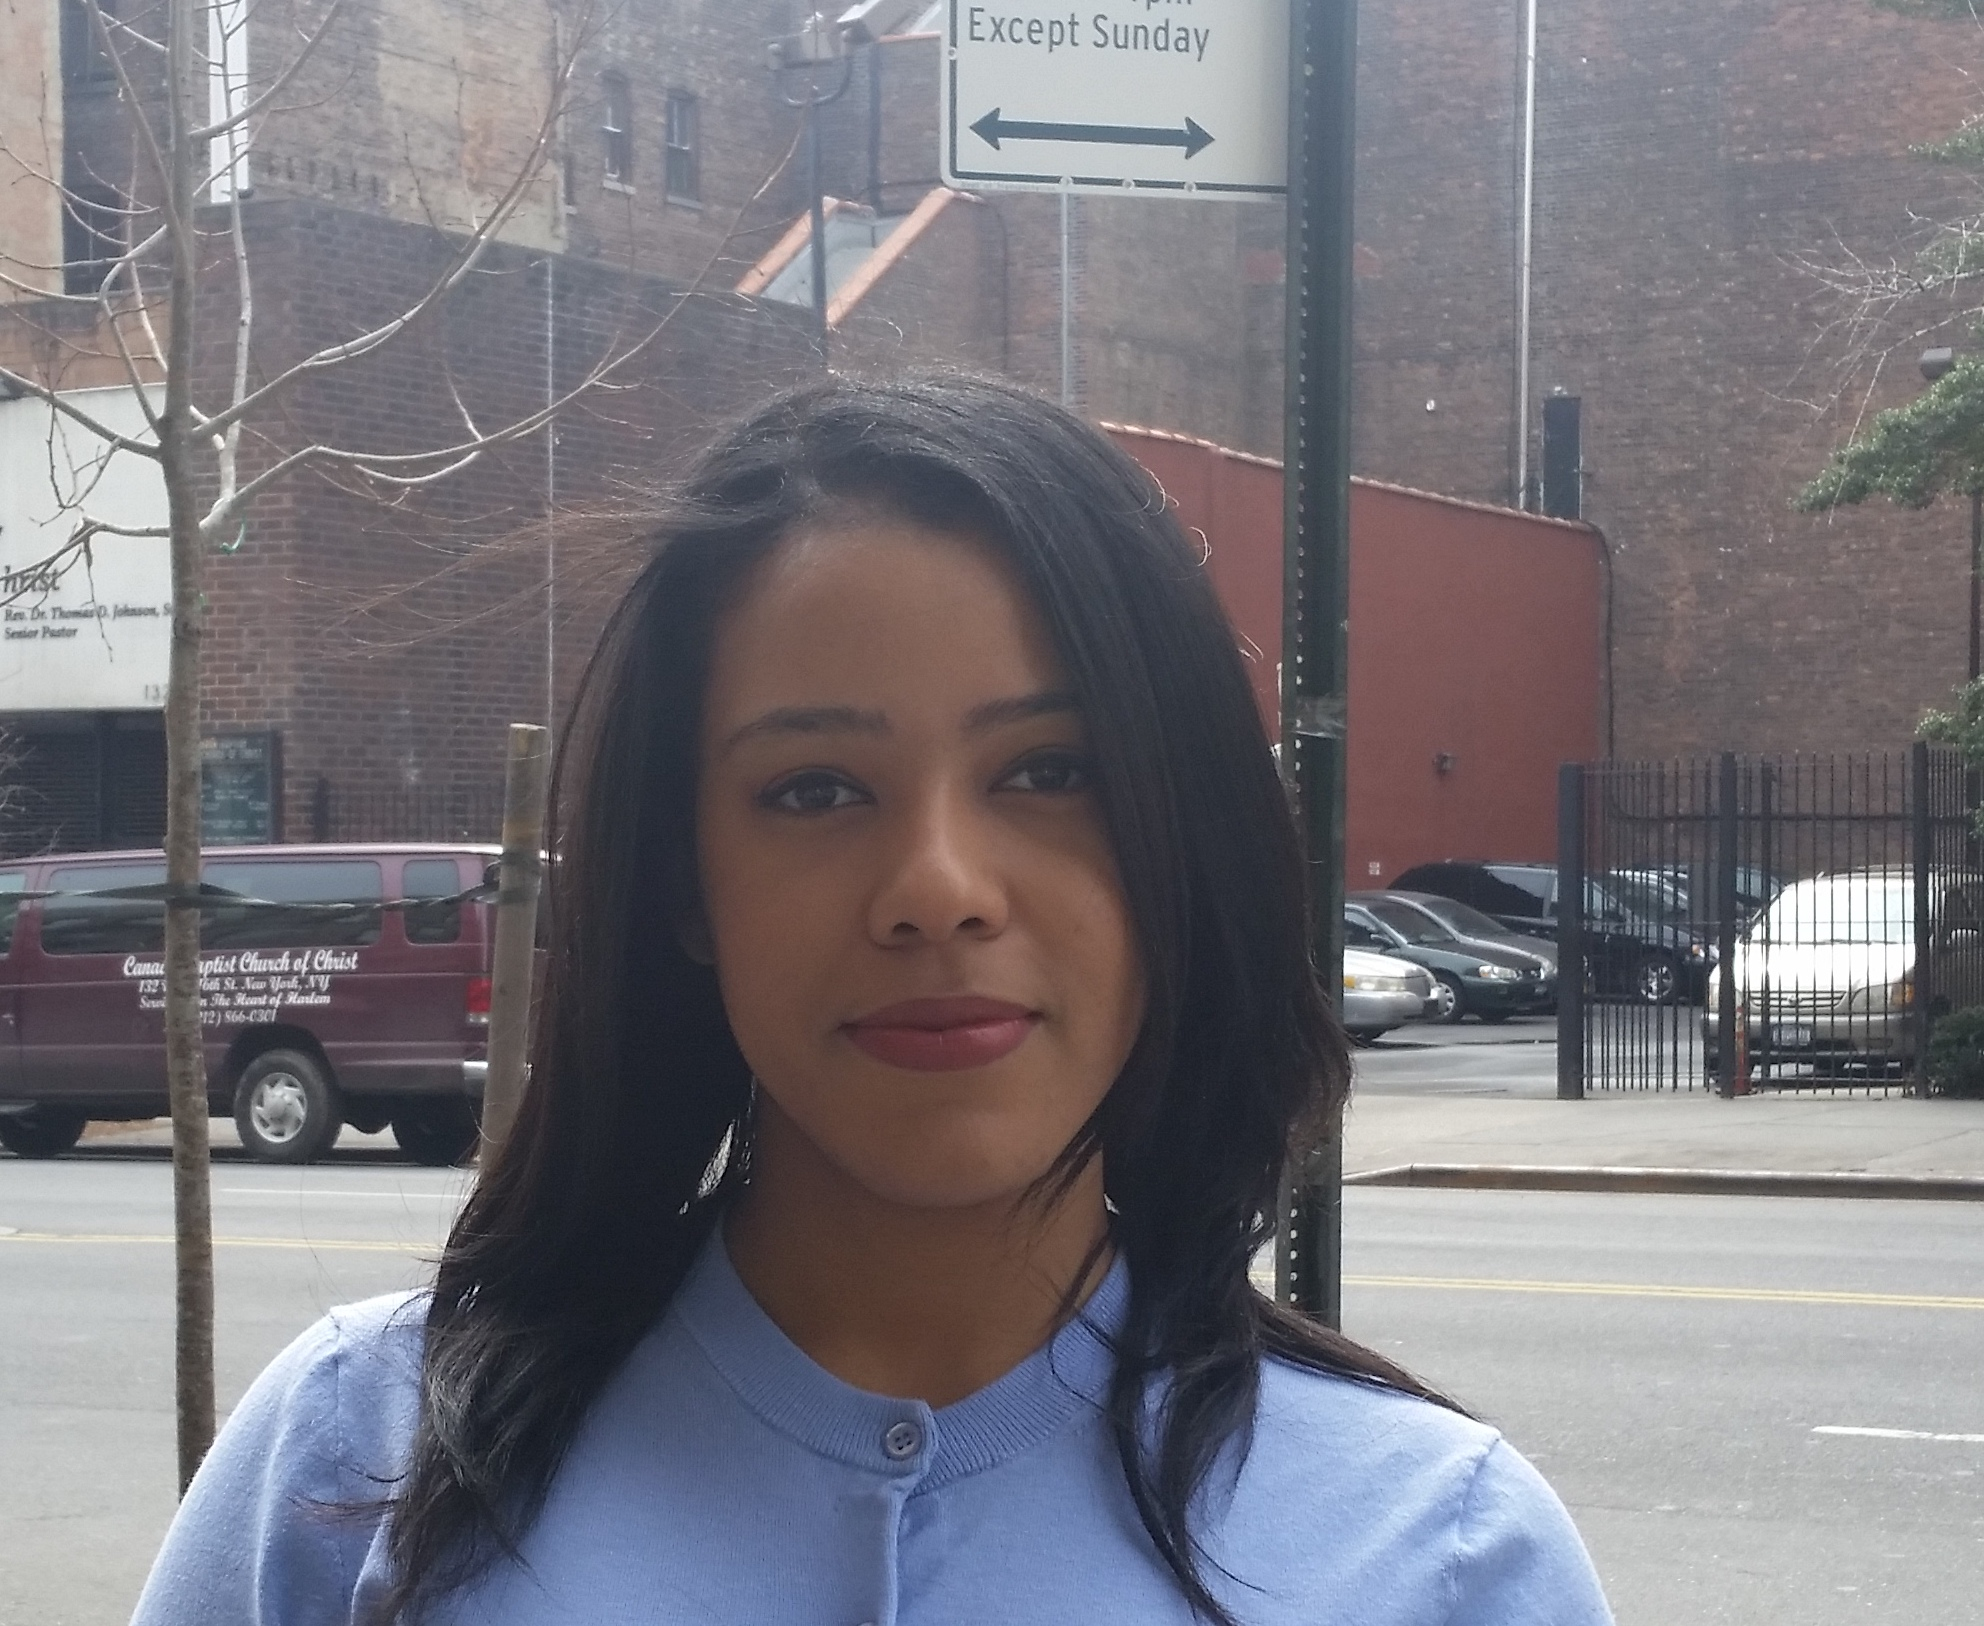
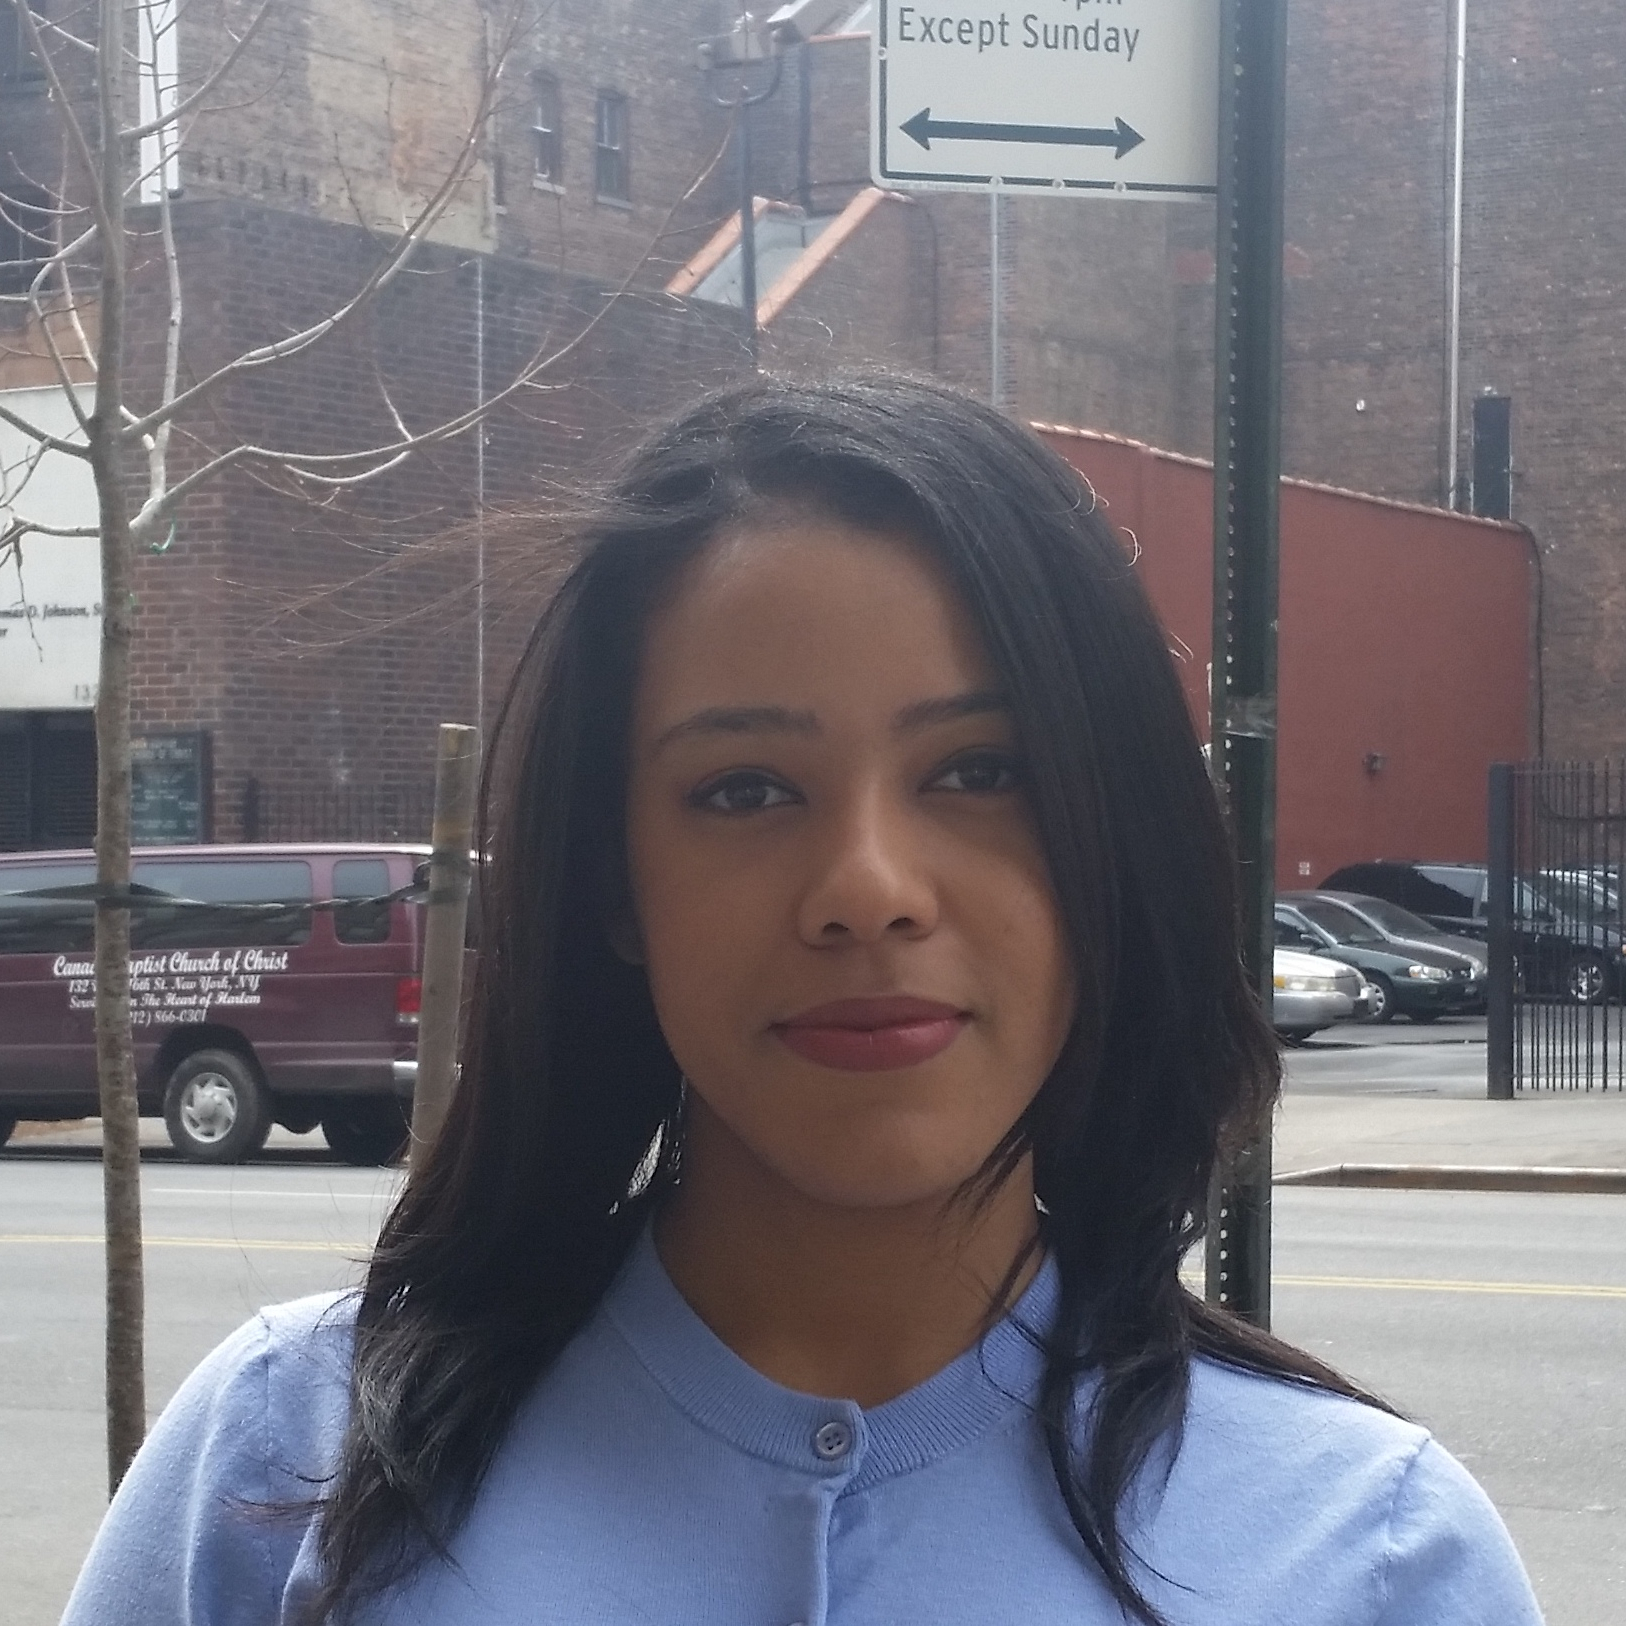
added wrapping for cards, used HTML code for apostrophe, cropped Mabel's image

diff --git a/src/About/About.js b/src/About/About.js
@@ -8,7 +8,7 @@ const Root = styled.main`
 const Cards = styled.section`
   display: flex;
   justify-content: space-around;
-
+  flex-wrap: wrap;
 `;
 
 const Card = styled.div`
@@ -37,13 +37,6 @@ const Description = styled.div`
 
 `;
 
-const Link = styled.a`
-  text-decoration: none;
-  &:hover {
-    color: #c9abf4;
-  }
-`;
-
 export default class About extends Component {
   render() {
     return (
@@ -67,7 +60,7 @@ export default class About extends Component {
             <Title>
               <h2>Joy</h2>
               <Description>
-                Computer science major and theater minor at Hunter College. Will be graduating May 2017. Programs mainly in C++ but spreading out to Nodejs and Python. Doesn't like the color pink. Likes long walks on the beach...Basically long walks anywhere.
+                Computer science major and theater minor at Hunter College. Will be graduating May 2017. Programs mainly in C++ but spreading out to Nodejs and Python. Doesn&#39;t like the color pink. Likes long walks on the beach...Basically long walks anywhere.
               </Description>
             </Title>
           </Card>
@@ -85,7 +78,7 @@ export default class About extends Component {
             <Title>
               <h2>Wei</h2>
               	<Description>
-                  <p>I am computer science student at City University of New York, minoring in physics and mathematics, graduating in May 2017. C++ is my main programming language, but I also have experience in Java, JavaScript, and Python.</p>
+                  <p>I&#39;m computer science student at City University of New York, minoring in physics and mathematics, graduating in May 2017. C++ is my main programming language, but I also have experience in Java, JavaScript, and Python.</p>
                   <a href="https://theonlywei.github.io/">Website</a><br/>
                 	<a href="https://github.com/TheOnlyWei">Github</a>
               </Description>
